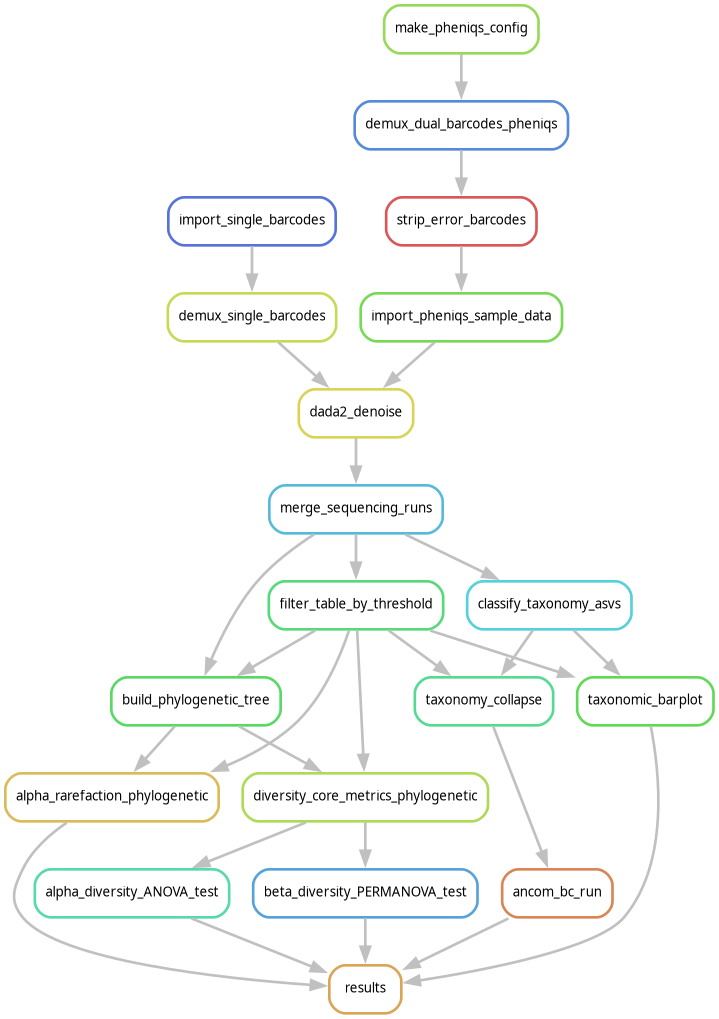
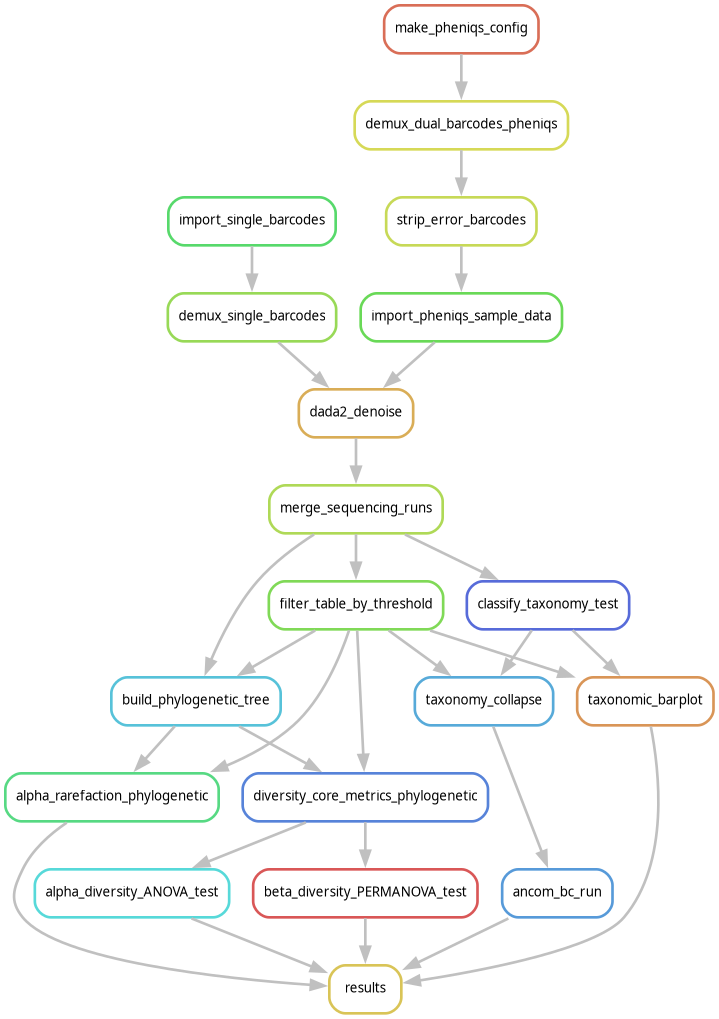
more generalizable workflow setup

diff --git a/mmeds/tools/analysis.py b/mmeds/tools/analysis.py
@@ -14,7 +14,7 @@ from mmeds.util import (create_qiime_from_mmeds, write_config,
                         load_metadata, write_metadata, camel_case,
                         get_file_index_entry_location, get_mapping_file_subset)
 from mmeds.error import AnalysisError, MissingFileError
-from mmeds.config import COL_TO_TABLE, JOB_TEMPLATE, WORKFLOW_FILES, SNAKEMAKE_DIR
+from mmeds.config import COL_TO_TABLE, JOB_TEMPLATE, WORKFLOWS, SNAKEMAKE_DIR, TAXONOMIC_DATABASES
 from mmeds.logging import Logger
 
 import multiprocessing as mp
@@ -215,6 +215,22 @@ class Analysis(mp.Process):
         # Add the mapping file to the MetaData object
         self.add_path(qiime_file, key='mapping')
 
+    def create_snakemake_file(self):
+        """ Copy a snakemake Snakefile to be used for analysis """
+        workflow_file = SNAKEMAKE_DIR / f"{self.workflow_type}.Snakefile"
+        # Open file for copying
+        with open(workflow_file, "rt") as f:
+            workflow_text = f.read()
+
+        # Specify directory with snakemake rules
+        workflow_text = workflow_text.format(snakemake_dir=SNAKEMAKE_DIR)
+
+        # Write new Snakefile in analysis directory
+        snakefile = self.path / "Snakefile"
+        self.add_path(snakefile, key="snakefile")
+        with open(snakefile, "wt") as f:
+            f.write(workflow_text)
+
     def summary(self):
         """ Setup script to create summary. """
         self.add_path('summary')
@@ -240,6 +256,14 @@ class Analysis(mp.Process):
         """
         cmd = f'zip -r {self.run_dir}.zip {self.run_dir};'
         self.jobtext.append(cmd)
+
+    def copy_taxonomic_database(self):
+        """ Copy in the database (e.g. greengenes, silva) to be used for classification"""
+        database_file = TAXONOMIC_DATABASES[self.config["taxonomic_database"]]
+        database_copy = self.get_file("tables_dir", True) / database_file.name
+        self.add_path(database_copy, key="taxonomic_database")
+        copy(database_file, database_copy)
+
 
     def split_by_sequencing_run(self):
         """ Separate metadata into sub-folders for each sequencing run """
@@ -267,11 +291,10 @@ class Analysis(mp.Process):
             df.to_csv(self.get_file(f"mapping_{run}", True), sep='\t', index=False)
 
     def make_analysis_dirs(self):
-        if self.workflow_type == 'standard_pipeline':
-            self.add_path(self.path / 'tables', key="tables_dir")
-            tables_dir = self.get_file("tables_dir", True)
-            if not tables_dir.is_dir():
-                tables_dir.mkdir()
+        self.add_path(self.path / 'tables', key="tables_dir")
+        tables_dir = self.get_file("tables_dir", True)
+        if not tables_dir.is_dir():
+            tables_dir.mkdir()
 
     ##############################
     # Analysis Execution Control #
@@ -309,26 +332,24 @@ class Analysis(mp.Process):
         # from, `write_config` likely had something to do with it.
         write_config(self.doc.config, self.path)
         self.create_qiime_mapping_file()
-        for workflow_file in WORKFLOW_FILES[self.workflow_type]:
-            with open(workflow_file, "rt") as f:
-                workflow_text = f.read()
-            workflow_text = workflow_text.format(snakemake_dir=SNAKEMAKE_DIR,
-                                                 metric = "{metric}",
-                                                 var = "{var}")
-            with open(self.path / "Snakefile", "wt") as f:
-                f.write(workflow_text)
-                self.add_path(self.path, key=workflow_file.name)
 
-        if self.workflow_type == 'standard_pipeline':
+        # Add handling for raw data if used by the workflow
+        if "sequencing_runs" in WORKFLOWS[self.workflow_type]["parameters"]:
             self.split_by_sequencing_run()
+
+        if "taxonomic_database" in WORKFLOWS[self.workflow_type]["parameters"]:
+            self.copy_taxonomic_database()
+
+        self.create_snakemake_file()
         self.run_dir = Path('$RUN_{}'.format(self.name.split('-')[0]))
 
     def setup_analysis(self, summary=True):
         """ Setup error logs and jobfile. """
         self.jobtext.append(f"cd {self.run_dir}")
         self.jobtext.append("source activate snakemake")
-        self.jobtext.append("snakemake --dag | dot -Tpdf > snakemake_dag.pdf")
-        self.jobtext.append("snakemake --rulegraph | dot -Tpdf > snakemake_rulegraph.pdf")
+        self.jobtext.append("snakemake -n -l -D")
+        self.jobtext.append("snakemake --debug-dag --dag | dot -Tpdf > snakemake_dag.pdf")
+        self.jobtext.append("snakemake --debug-dag --rulegraph | dot -Tpdf > snakemake_rulegraph.pdf")
         self.jobtext.append("snakemake --use-conda --cores 10")
         self.jobtext.append('echo "MMEDS_FINISHED"')
 

diff --git a/mmeds/config.py b/mmeds/config.py
@@ -46,6 +46,7 @@ if TESTING:
     SERVER_PATH = 'http://localhost/myapp/'
     CSS_DIR = 'http://localhost/CSS/'
     IMAGE_PATH = str(CSS_DIR) + '/'
+
 else:
     # We're on web01 and using MMEDs out of if it's project diredctory
     # OR, we're in the folder /sc/arion/projects/MMEDS
@@ -73,6 +74,7 @@ else:
 STUDIES_DIR = DATABASE_DIR / 'studies'
 SEQUENCING_DIR = DATABASE_DIR / 'sequencing_runs'
 SESSION_PATH = DATABASE_DIR / 'CherryPySessions'
+TAXONOMIC_DATABASE_DIR = DATABASE_DIR / "taxonomic_databases"
 
 ############################
 # CONFIGURE SERVER GLOBALS #
@@ -271,9 +273,29 @@ HTML_ARGS = {
 ##############################
 
 
-WORKFLOW_FILES = {
-    "standard_pipeline": [SNAKEMAKE_DIR / "standard_pipeline.Snakefile"]
+WORKFLOWS = {
+    "standard_pipeline": {
+        "parameters": [
+            'sampling_depth',
+            'metadata',
+            'alpha_metrics',
+            'beta_metrics',
+            'taxonomic_database',
+            'sequencing_runs',
+            'taxa_levels'
+        ]
+    }
 }
+
+TAXONOMIC_DATABASES = {
+    "greengenes": TAXONOMIC_DATABASE_DIR / "gg-13-8-99-nb-2020-8-0.qza",
+    "greengenes2": TAXONOMIC_DATABASE_DIR / "greengenes2.2020-10.nb-classifier.qza",
+    "silva": TAXONOMIC_DATABASE_DIR / "silva-138-99-nb-classifier.qza"
+}
+
+if TESTING:
+    TAXONOMIC_DATABASES["test"] = TAXONOMIC_DATABASE_DIR / "dummy_classifier.qza"
+
 
 UPLOADED_FP = 'uploaded_file'
 ERROR_FP = 'error_log.tsv'
@@ -333,13 +355,7 @@ CONFIG_PARAMETERS = {
         'alpha_metrics',
         'beta_metrics',
         'sequencing_runs',
-        'taxa_levels',
-        'abundance_threshold',
-        'font_size',
-        'additional_analysis',
-        'iterations',
-        'permutations',
-        'type'],
+        'taxa_levels'],
     'cutie': [
         'statistic',
         'feature_table',

diff --git a/mmeds/util.py b/mmeds/util.py
@@ -355,7 +355,7 @@ def load_config(config_file, metadata, workflow_type, ignore_bad_cols=False):
         raise InvalidConfigError('There was an error loading your config. Config files must be in YAML format.')
 
     # Add sequencing runs to config for snakemake
-    if workflow_type == 'standard_pipeline':
+    if "sequencing_runs" in fig.WORKFLOWS[workflow_type]["parameters"]:
         config["sequencing_runs"] = get_sequencing_run_names(metadata)
     # Check if columns == 'all'
     for param in fig.CONFIG_LISTS:
@@ -373,13 +373,13 @@ def parse_parameters(config, metadata, workflow_type, ignore_bad_cols=False):
     the metadata. This functionality has been causing some problems recently however.
     """
     # Ignore the 'all' keys
-    diff = {x for x in set(config.keys()).difference(fig.CONFIG_PARAMETERS[workflow_type])
+    diff = {x for x in set(config.keys()).difference(fig.WORKFLOWS[workflow_type]["parameters"])
             if '_all' not in x}
     if diff:
         raise InvalidConfigError('Invalid parameter(s) {} in config file'.format(diff))
     try:
         # Parse the values/levels to be included in the analysis
-        for option in fig.CONFIG_PARAMETERS[workflow_type]:
+        for option in fig.WORKFLOWS[workflow_type]["parameters"]:
             Logger.debug('checking {}'.format(option))
             # Get approriate metadata columns based on the metadata file
             if option == 'metadata':

diff --git a/scripts/run_analysis.py b/scripts/run_analysis.py
@@ -33,7 +33,7 @@ def run_analysis(study_name, analysis_name, workflow_type, user, config):
     with Database(testing=fig.TESTING) as db:
         access_code = db.get_access_code_from_study_name(study_name, user)
         files, path = db.get_mongo_files(access_code, False)
-        if workflow_type == 'standard_pipeline':
+        if "sequencing_runs" in fig.WORKFLOWS[workflow_type]["parameters"]:
             runs = db.get_sequencing_run_locations(files['metadata'], user)
             analysis_type = 'dada2'
     ret = start_analysis_local(q, access_code, analysis_name, workflow_type, user, config, runs, analysis_type)
